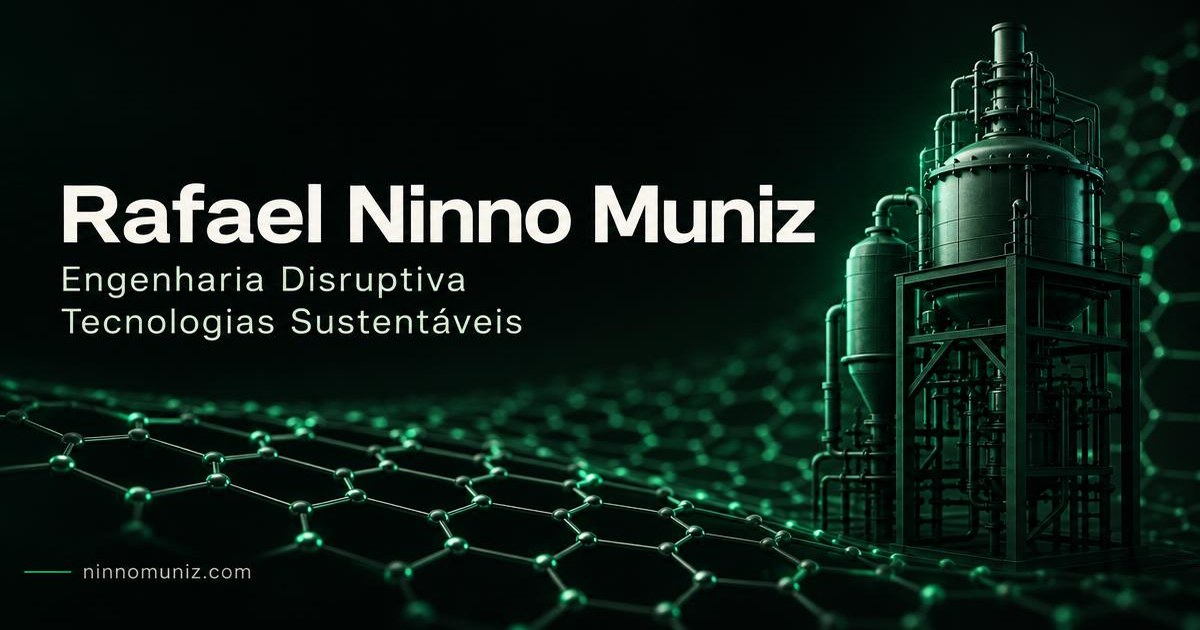
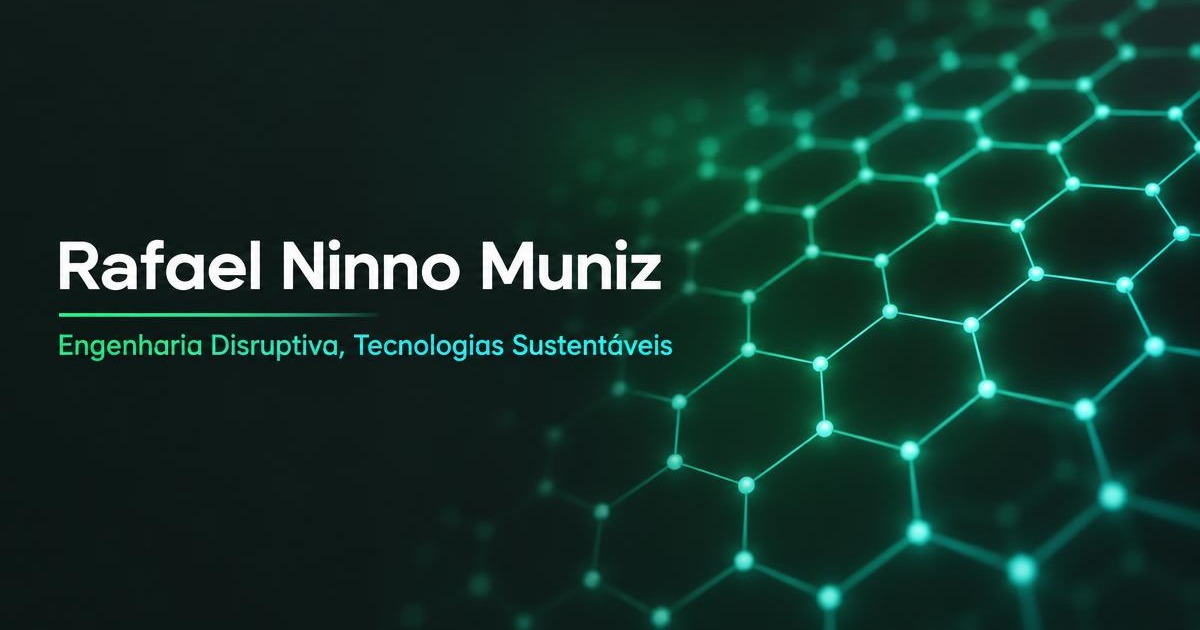
Replace social share image with graphene lattice, title and subtitle

diff --git a/roadmap.md b/roadmap.md
@@ -7,3 +7,5 @@
 - [x] Complete missing English translations across all pages and controls without changing the design.
 - [x] Verify both languages, language persistence, and contact links at desktop and mobile sizes.
 - [x] Create and install a social sharing image aligned with the site's visual identity.
+- [x] Regenerate the social image with graphene lattice, title and subtitle only, no plant photo.
+- [x] Confirm the site's share tags serve the new image.
